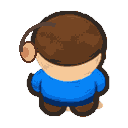
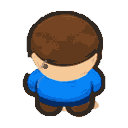
Fix victory modal timing and remove protruding side-view character details

Changed region(s): [[0.125, 0.0625, 0.875, 0.9375]]

diff --git a/sokoban_flat.py b/sokoban_flat.py
@@ -390,6 +390,10 @@ class FlatSokobanApp:
             py = anim.source[1] + (anim.target[1] - anim.source[1]) * eased
         self._blit_cell("player", px, py, x0, y0, tile)
 
+    def _victory_ready(self) -> bool:
+        """Show success only after the last box has finished animating."""
+        return self.game.is_won and self.animation is None
+
     def _footer(self) -> None:
         y = 927
         # Three equal-width controls centered as one native-game toolbar.
@@ -397,12 +401,12 @@ class FlatSokobanApp:
                      variant="blue", icon="undo")
         self._button(pygame.Rect(593, y, 350, 76), "Заново", "restart",
                      variant="blue", icon="restart")
-        can_advance = self.game.is_won and self.game.level_index < len(self.game.levels) - 1
+        can_advance = self._victory_ready() and self.game.level_index < len(self.game.levels) - 1
         self._button(pygame.Rect(962, y, 350, 76), "Следующий уровень", "next",
                      enabled=can_advance, variant="gold", icon="next")
 
     def _win_overlay(self) -> None:
-        if not self.game.is_won:
+        if not self._victory_ready():
             return
         fade = pygame.Surface((DESIGN_W, DESIGN_H), pygame.SRCALPHA)
         fade.fill((5, 16, 36, 132))
@@ -440,8 +444,8 @@ class FlatSokobanApp:
         self._header()
         self._board_layer()
         self._footer()
-        if self.game.is_won:
-            self.buttons.clear()  # Victory modal owns input until dismissed.
+        if self._victory_ready():
+            self.buttons.clear()  # Victory modal owns input after the final push.
             self._win_overlay()
         if self.menu_open:
             self._menu_overlay()
@@ -488,7 +492,7 @@ class FlatSokobanApp:
         self.menu_open = False
 
     def _next(self) -> None:
-        if self.game.is_won and self.game.next_level():
+        if self._victory_ready() and self.game.next_level():
             self.animation = None
             self.facing = "up"
             self.menu_open = False

diff --git a/tests/smoke_ui.py b/tests/smoke_ui.py
@@ -103,8 +103,31 @@ def exercise() -> None:
             assert game.move(*directions[key]), "Invalid solution step"
         assert game.is_won and game.boxes_on_goals == 3
         app.game = game
+        # The rules mark the level solved before the final box reaches its
+        # destination on screen. Keep the modal and Next button unavailable
+        # until the visual transition has finished.
+        from sokoban_flat import MOVE_MS, MoveAnimation
+        app.animation = MoveAnimation(
+            source=app.game.player, target=app.game.player,
+            start=pygame.time.get_ticks(),
+            box_source=next(iter(app.game.goals)),
+            box_target=next(iter(app.game.goals)),
+        )
         app._draw()
-        assert any(button.action == "next" and button.enabled for button in app.buttons)
+        assert app.game.is_won and not app._victory_ready()
+        assert not any(button.action == "next" and button.enabled
+                       for button in app.buttons)
+        assert not any(button.action == "restart"
+                       for button in app.buttons if button.rect.y == 620)
+        pygame.image.save(
+            app.screen, str(screenshots / "sokoban-winning-push-in-flight.png"))
+        # Simulate elapsed time deterministically; no sleeps in CI.
+        app.animation.start = pygame.time.get_ticks() - MOVE_MS - 10
+        app._draw()
+        assert app.animation is None
+        assert app._victory_ready()
+        assert any(button.action == "next" and button.enabled
+                   for button in app.buttons)
         pygame.image.save(app.screen, str(screenshots / "sokoban-victory.png"))
         assert app.game.next_level()
         assert app.game.level_index == 1 and app.game.moves == 0
